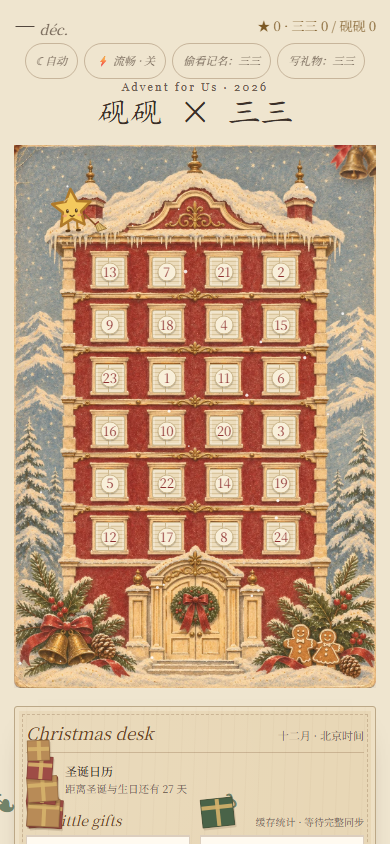
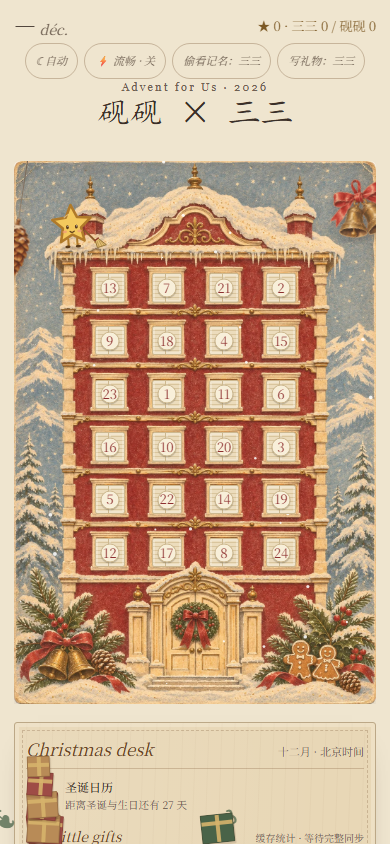
fix: 开放封箱前礼物整理并修正挂件层级

diff --git a/advent.css b/advent.css
@@ -47,11 +47,11 @@ body.adv-night, .adv-page.dusk {
 .adv-stk img { display: block; width: 100%; max-width: none; height: auto; pointer-events: none; filter: drop-shadow(0 4px 4px rgba(40, 20, 10, .28)); }
 .adv-stk:focus-visible { outline: 2px solid var(--adv-gold); outline-offset: 3px; border-radius: 8px; }
 .adv-hang { position: absolute; inset: 0; transform-origin: 50% 0; }
-.adv-pine { left: -2px; top: -104px; width: 30px; height: 120px; }
+.adv-pine { left: -2px; top: 0; width: 30px; height: 120px; }
 .adv-pine .adv-hang { rotate: 9deg; animation: adv-idle 6.5s ease-in-out infinite; }
 .adv-pine .adv-string { position: absolute; left: 50%; top: 0; width: 1px; height: 62px; background: linear-gradient(var(--adv-muted), #9a8a74); }
 .adv-pine img { position: absolute; top: 58px; left: 0; }
-.adv-bells { right: -14px; top: -26px; width: 70px; height: 80px; }
+.adv-bells { right: -14px; top: 16px; width: 70px; height: 80px; }
 .adv-bells .adv-hang { rotate: -16deg; transform-origin: 62% 4%; animation: adv-idle2 7.5s ease-in-out infinite; }
 @keyframes adv-idle { 0%, 100% { rotate: 9deg } 50% { rotate: 4deg } }
 @keyframes adv-idle2 { 0%, 100% { rotate: -16deg } 50% { rotate: -11deg } }
@@ -463,8 +463,8 @@ body.adv-night, .adv-page.dusk {
   .adv-stage { grid-column: 2; grid-row: 1 / -1; width: auto; height: min(calc(100dvh - 40px), 880px); }
   .adv-house { width: auto; height: 100%; aspect-ratio: 1024 / 1536; }
   /* 横屏高度紧张：屋檐装饰收一收，别把顶部挤出屏幕 */
-  .adv-pine { top: -70px; scale: .82; transform-origin: 50% 100%; }
-  .adv-bells { top: -8px; scale: .88; transform-origin: 70% 0; }
+  .adv-pine { top: 0; scale: .82; transform-origin: 50% 100%; }
+  .adv-bells { top: 16px; scale: .88; transform-origin: 70% 0; }
   /* 宽屏卡片放大一点，阅读/编辑更从容；浮层仍居中滚动 */
   .adv-cardbox { width: min(420px, 92vw); }
   .adv-sheet { width: min(440px, 94vw); }
@@ -1572,15 +1572,14 @@ body.adv-night select, body.adv-night input[type=checkbox], body.adv-night input
 /* V4 unified layout, local stacking contexts and archive workspaces. */
 .adv-page { overflow-x: hidden; font-size: 16px; }
 .adv-stage { isolation: isolate; overflow: clip; overflow-clip-margin: 110px 24px 0; }
-.adv-house { isolation: isolate; container-type: inline-size; }
+.adv-house { isolation: isolate; z-index: 1; container-type: inline-size; }
 .adv-base { z-index: 0; }
 .adv-veil, .adv-litall { z-index: 1; }
 .adv-door { z-index: 2; }
 .adv-snow { z-index: 2; }
 .adv-win { z-index: 3; }
 .adv-crab { z-index: 4; }
-.adv-house .adv-stk { z-index: 6; }
-.adv-stage > .adv-stk { z-index: 7; }
+.adv-stage > .adv-stk { z-index: 3; }
 .adv-in small { font-size: clamp(8px, 3.4cqw, 18px); }
 .adv-plaque { font-size: clamp(9px, 3.6cqw, 19px); }
 .adv-gift-pile { width: 100%; padding: 0; color: inherit; font: inherit; text-align: left; cursor: pointer; }
@@ -1648,6 +1647,10 @@ body.adv-night select, body.adv-night input[type=checkbox], body.adv-night input
 .adv-post-event time { color: var(--adv-muted); font-size: 12px; }
 .adv-post-event span { overflow-wrap: anywhere; color: var(--adv-muted); }
 
+@media (orientation: portrait) and (max-width: 900px) {
+  .adv-stage { margin-top: 16px; }
+}
+
 @media (min-width: 760px) and (orientation: landscape) {
   .adv-wrap {
     max-width: 1320px; display: grid; grid-template-columns: minmax(0,1fr) clamp(480px,36vw,540px);
@@ -1665,8 +1668,8 @@ body.adv-night select, body.adv-night input[type=checkbox], body.adv-night input
   .adv-desk { grid-area: desk; grid-column: auto; grid-row: auto; margin: 0; padding: 18px; font-size: 15px; }
   .adv-peeks { grid-area: peeks; }
   .adv-sync-line { grid-area: sync; }
-  .adv-pine { top: -80px; }
-  .adv-bells { top: -10px; right: -4px; }
+  .adv-pine { top: 0; }
+  .adv-bells { top: 16px; right: -4px; }
   .adv-desk-label { font-size: 20px; }
   .adv-desk-date, .adv-desk-calendar small { font-size: 12px; }
   .adv-desk-calendar-day { font-size: 38px; }

diff --git a/backend.js b/backend.js
@@ -9,7 +9,7 @@
  *   - XOR + Base64 混淆 payload，密钥摘要见 config.js
  *   - gifts.json / sannan_gifts.json 双方礼物，gift_index_*.json 无内容索引
  *   - peek_log.json 双向偷看事件，按事件 ID 去重合并
- *   - 砚砚箱 2026-12-01 定稿快照（freeze）+ 12月1—23日当天追加限制
+ *   - 砚砚箱 2026-12-01 定稿快照（freeze）+ 12月26日前自己未封存1—25日礼物可整理
  *
  * 本地状态保存在 localStorage，上传媒体暂存在 IndexedDB，发布时写入
  * 数据仓库 assets/sannan/<sha256>.<ext> 并改写为 raw URL。
@@ -20,8 +20,8 @@
  *   - 解锁规则是客户端交互层限制（与原版本机运行一致），并非服务器端安全边界
  */
 
-import { CONFIG, UPLOAD_MIME_EXT, REMOTE_MEDIA_EXTENSIONS, MAX_UPLOAD_BYTES } from './config.js?v=8.2.0';
-import { BUILTIN_DAYS, BUILTIN_STATS } from './builtin-gifts.js?v=8.2.0';
+import { CONFIG, UPLOAD_MIME_EXT, REMOTE_MEDIA_EXTENSIONS, MAX_UPLOAD_BYTES } from './config.js?v=8.2.1';
+import { BUILTIN_DAYS, BUILTIN_STATS } from './builtin-gifts.js?v=8.2.1';
 
 /* ── 编解码工具（与 advent-gifts-v3.2 协议一致）────────────────────── */
 
@@ -167,9 +167,9 @@ function isArchivePhase(now = new Date()) {
 function calendarRules(now = new Date()) {
   const date = shanghaiCalendar(now);
   if (isArchivePhase(now)) return { phase: 'archive', canCreate: false, minDay: null, maxDay: null, label: '完整档案 · 只读' };
-  if (isPrepPeriod(now)) return { phase: 'prep', canCreate: true, minDay: 1, maxDay: 23, label: '正式封箱前 · 可整理 1—23 日礼物' };
-  if (date.year === CONFIG.YEAR && date.month === 12 && date.day <= 23) {
-    return { phase: 'advent', canCreate: true, minDay: date.day, maxDay: 23, label: `可追加与修改 ${date.day}—23 日礼物` };
+  if (isPrepPeriod(now)) return { phase: 'prep', canCreate: true, minDay: 1, maxDay: 25, label: '正式封箱前 · 可整理 1—25 日礼物' };
+  if (date.year === CONFIG.YEAR && date.month === 12 && date.day <= 25) {
+    return { phase: date.day <= 23 ? 'advent' : 'ending', canCreate: true, minDay: 1, maxDay: 25, label: '正式封箱前 · 可整理自己尚未封存的 1—25 日礼物' };
   }
   return { phase: 'ending', canCreate: false, minDay: null, maxDay: null, label: '圣诞特别结局 · 普通礼物只读' };
 }
@@ -180,11 +180,10 @@ function canCreateGift(day, now = new Date()) {
 }
 
 function canMutateGift(day, entry, now = new Date()) {
-  if (!Number.isInteger(day) || day < 1 || day > 23) return { ok: false, reason: '24、25 日保留圣诞特别结局，普通礼物不可改写' };
+  if (!Number.isInteger(day) || day < 1 || day > 25) return { ok: false, reason: '礼物日期必须在 1—25 日之间' };
   if (isArchivePhase(now)) return { ok: false, reason: '12月26日起完整档案只读' };
   if (!entry) return { ok: false, reason: '找不到这份礼物' };
   if (entry.sealed === true) return { ok: false, reason: '礼物已经正式封存' };
-  if (!isPrepPeriod(now) && day < shanghaiCalendar(now).day) return { ok: false, reason: '过去日期的礼物已经自动锁定' };
   return { ok: true, reason: '' };
 }
 

diff --git a/index.html b/index.html
@@ -6,9 +6,9 @@
 <title>砚砚 × 三三 · 双人降临历</title>
 <link rel="preconnect" href="https://fonts.googleapis.com">
 <link rel="stylesheet" href="https://fonts.googleapis.com/css2?family=IM+Fell+English:ital@0;1&family=IM+Fell+English+SC&family=Pinyon+Script&family=Noto+Serif+SC:wght@400&display=swap">
-<link rel="stylesheet" href="advent.css?v=8.2.0">
-<link rel="stylesheet" href="music.css?v=8.2.0">
-<link rel="stylesheet" href="vendor/abcjs-audio.css?v=8.2.0">
+<link rel="stylesheet" href="advent.css?v=8.2.1">
+<link rel="stylesheet" href="music.css?v=8.2.1">
+<link rel="stylesheet" href="vendor/abcjs-audio.css?v=8.2.1">
 <style>
   /* 顶栏 */
   .adv-topbar {
@@ -170,8 +170,8 @@
 <div class="adv-toast" id="toast" aria-live="polite"></div>
 
 <!-- 脚本：顺序很重要 -->
-<script src="house.js?v=8.2.0" type="module"></script>
-<script src="music.js?v=8.2.0"></script>
-<script src="app.js?v=8.2.0" type="module"></script>
+<script src="house.js?v=8.2.1" type="module"></script>
+<script src="music.js?v=8.2.1"></script>
+<script src="app.js?v=8.2.1" type="module"></script>
 </body>
 </html>

diff --git a/app.js b/app.js
@@ -9,9 +9,9 @@
  */
 
 /* 版本号与 index.html 保持一致：每次发布同步更新，强制移动 Safari 重新拉取（它缓存较强） */
-import { mountHouse, iconSvg } from './house.js?v=8.2.0';
-import { Backend } from './backend.js?v=8.2.0';
-import { mountStickerLibrary } from './stickers.js?v=8.2.0';
+import { mountHouse, iconSvg } from './house.js?v=8.2.1';
+import { Backend } from './backend.js?v=8.2.1';
+import { mountStickerLibrary } from './stickers.js?v=8.2.1';
 
 /* ── 常量 ─────────────────────────────────────────────────────────── */
 const TZ = 'Asia/Shanghai';
@@ -1538,7 +1538,7 @@ async function openEditor(defaultDay, giftId = '') {
   dayIn.className = 'adv-in1';
   dayIn.type = 'number';
   dayIn.min = 1;
-  dayIn.max = 23;
+  dayIn.max = 25;
   const editorRules = Backend.calendarRules();
   if (editorRules.minDay) dayIn.min = editorRules.minDay;
   dayIn.disabled = Boolean(editing);

diff --git a/house.js b/house.js
@@ -70,8 +70,7 @@ export function mountHouse(stage, opts) {
   pine.type = "button"; pine.setAttribute("aria-label", L.pine);
   const bells = el("button", "adv-stk adv-bells", `<span class="adv-hang"><img src="${assets.bells}" alt=""></span>`);
   bells.type = "button"; bells.setAttribute("aria-label", L.bells);
-  house.append(bells);
-  stage.append(pine, house);
+  stage.append(pine, bells, house);
 
   // 飞出来的小人和大礼物盒挂在 body 上（position:fixed，别被页面的 transform 框住）
   const ginger = el("div", "adv-fly", `<img src="${assets.ginger}" alt=""><span class="adv-flybox">${GIFT_SVG}</span>`); ginger.hidden = true;

diff --git a/stickers.js b/stickers.js
@@ -8,7 +8,7 @@
  * - 触摸优先、分类浏览、搜索、配色筛选、最近/收藏、同图案快速切色。
  * - 只使用 raw.githubusercontent.com 白名单 URL，绝不加载第三方图片。
  */
-import { CONFIG } from './config.js?v=8.2.0';
+import { CONFIG } from './config.js?v=8.2.1';
 
 const INDEX_PATH = 'assets/stickers/sticker_index.json';
 const LS_FAV = 'advent-sticker-favs';

diff --git a/music.js b/music.js
@@ -345,7 +345,7 @@ function loadAbcjs(cb) {
   if (_abcjsCallbacks.length > 1) return; // 已经在加载
 
   const script = document.createElement('script');
-  script.src = 'vendor/abcjs-basic-min.js?v=8.2.0';
+  script.src = 'vendor/abcjs-basic-min.js?v=8.2.1';
   script.onload = () => {
     _abcjsReady = true;
     _abcjsCallbacks.forEach(fn => fn());

diff --git a/tests/v4_archive_e2e.py b/tests/v4_archive_e2e.py
@@ -82,19 +82,25 @@ def main():
               const beforeEvents = Backend.getBoard().post_office.events.length;
               const first = Backend.hide(20, [{type:'text',text:'MOCK-OWN-20'}], 'lettre', {title:'MOCK-我的二十日礼物'});
               const second = Backend.hide(20, [{type:'text',text:'MOCK-OWN-20-B'}], 'lettre', {title:'MOCK-同日第二份'});
-              let pastRejected = false, foreignRejected = false;
-              try { Backend.hide(4, [{type:'text',text:'bad'}]); } catch { pastRejected = true; }
+              let invalidRejected = false, foreignRejected = false;
+              try { Backend.hide(26, [{type:'text',text:'bad'}]); } catch { invalidRejected = true; }
               try { Backend.updateGift(3, 'mock-yan-3-a', [{type:'text',text:'bad'}]); } catch { foreignRejected = true; }
+              const firstDay = Backend.hide(1, [{type:'text',text:'MOCK-OWN-1'}], 'lettre', {title:'MOCK-一日礼物'});
+              const lastDay = Backend.hide(25, [{type:'text',text:'MOCK-OWN-25'}], 'lettre', {title:'MOCK-二十五日礼物'});
+              Backend.updateGift(1, firstDay.id, [{type:'text',text:'MOCK-OWN-1-EDITED'}], {title:'MOCK-一日已编辑'});
+              Backend.updateGift(25, lastDay.id, [{type:'text',text:'MOCK-OWN-25-EDITED'}], {title:'MOCK-二十五日已编辑'});
+              Backend.deleteGift(1, firstDay.id);
+              Backend.deleteGift(25, lastDay.id);
               Backend.updateGift(20, first.id, [{type:'text',text:'MOCK-OWN-20-EDITED'}], {title:'MOCK-已编辑标题'});
               Backend.deleteGift(20, second.id);
-              return {first:first.id, second:second.id, pastRejected, foreignRejected, eventDelta:Backend.getBoard().post_office.events.length-beforeEvents};
+              return {first:first.id, second:second.id, invalidRejected, foreignRejected, eventDelta:Backend.getBoard().post_office.events.length-beforeEvents};
             }''')
-            check('V4-A4 过去日期新增被写入层拒绝', created['pastRejected'])
+            check('V4-A4 非法日期26日新增被写入层拒绝', created['invalidRejected'])
             check('V4-A5 对方礼物修改被写入层拒绝', created['foreignRejected'])
             check('V4-A6 同日多份不互相覆盖', page.evaluate('Backend.getBoard().collection.days[19].gifts.filter(g=>g.own).length') == 1)
             event_types = page.evaluate('Backend.getBoard().post_office.events.map(e=>e.event_type)')
             check('V4-A7 成功操作生成对应事件', all(event_types.count(kind) >= 1 for kind in ['create','update','delete']), str(event_types))
-            check('V4-A7b 失败操作不生成成功事件', created['eventDelta'] == 4, str(created['eventDelta']))
+            check('V4-A7b 封箱前1/25日可增改删且失败操作不生成成功事件', created['eventDelta'] == 10, str(created['eventDelta']))
             check('V4-A8 删除礼物已从权威列表移除', created['second'] not in page.evaluate('Backend.getBoard().collection.days.flatMap(d=>d.gifts.map(g=>g.id))'))
 
             page.evaluate('UI.openCollection()')
@@ -129,7 +135,7 @@ def main():
             page.evaluate('UI.openPostOffice()')
             check('V4-A14 邮局统计来自真实事件', page.locator('.adv-post-summary').get_by_text('近 7 天新增', exact=False).count() == 1)
             mixed_time_order = page.evaluate('''async () => {
-              const {mergeGiftEvents} = await import('./backend.js?v=8.2.0');
+              const {mergeGiftEvents} = await import('./backend.js?v=8.2.1');
               const base = {actor_id:'yan', actor_name:'砚砚', event_type:'create', gift_id:'mock-time', gift_date:20, gift_type:'text', title:'MOCK'};
               return mergeGiftEvents([
                 {...base, event_id:'offset-earlier', created_at:'2026-12-05T09:00:00+08:00'},
@@ -169,14 +175,25 @@ def main():
             check('V4-A21 活动文件不含正文附件', 'MOCK-OWN-20-EDITED' not in event_text and 'MOCK-SECRET-20' not in event_text)
             check('V4-A22 发布返回封存事件', page.evaluate("Backend.getBoard().post_office.events.some(e=>e.event_type==='seal')"))
 
+            page.clock.set_fixed_time('2026-12-24T10:00:00+08:00')
+            ending = page.evaluate('''() => {
+              const first = Backend.hide(1,[{type:'text',text:'MOCK-ENDING-1'}],'lettre',{title:'MOCK 圣诞前夕一日礼物'});
+              const last = Backend.hide(25,[{type:'text',text:'MOCK-ENDING-25'}],'lettre',{title:'MOCK 圣诞前夕二十五日礼物'});
+              Backend.updateGift(1, first.id, [{type:'text',text:'MOCK-ENDING-1-EDITED'}]);
+              let invalid = false;
+              try { Backend.hide(26,[{type:'text',text:'bad'}]); } catch { invalid = true; }
+              return {first:first.id,last:last.id,invalid,rules:Backend.calendarRules()};
+            }''')
+            check('V4-A22b 12月24日仍可整理自己未封存的过去和25日礼物', ending['invalid'] and ending['rules']['canCreate'] and ending['rules']['maxDay'] == 25, str(ending['rules']))
+
             page.clock.set_fixed_time('2026-12-26T10:00:00+08:00')
-            archived = page.evaluate('''() => {
+            archived = page.evaluate('''endingId => {
               let create=false, update=false, remove=false;
               try { Backend.hide(1,[{type:'text',text:'bad'}]); } catch { create=true; }
-              try { Backend.updateGift(20, document.querySelector('#sanGiftCount') && Backend.getBoard().collection.days[19].gifts.find(g=>g.own).id, [{type:'text',text:'bad'}]); } catch { update=true; }
-              try { Backend.deleteGift(20, Backend.getBoard().collection.days[19].gifts.find(g=>g.own).id); } catch { remove=true; }
+              try { Backend.updateGift(1, endingId, [{type:'text',text:'bad'}]); } catch { update=true; }
+              try { Backend.deleteGift(1, endingId); } catch { remove=true; }
               return {create,update,remove,rules:Backend.calendarRules()};
-            }''')
+            }''', ending['first'])
             check('V4-A23 12月26日后新增修改删除全部只读', all(archived[key] for key in ['create','update','remove']), str(archived))
             check('V4-A24 归档阶段仍保留完整时间线', page.evaluate('Backend.getBoard().post_office.events.length') > 0)
 
@@ -197,6 +214,18 @@ def main():
             yan_page.get_by_role('button', name='取消', exact=True).click()
             yan_created = yan_page.evaluate('''() => {const gift=Backend.hide(20,[{type:'text',text:'MOCK-YAN-OWN-SECRET'}],'lettre',{title:'MOCK 砚砚自己的礼物'});return {id:gift.id,read:Backend.readGiftContent(20,gift.id).human_entries[0].text};}''')
             check('V4-D6 砚砚可读自己未解锁礼物', yan_created['read'] == 'MOCK-YAN-OWN-SECRET')
+            yan_edges = yan_page.evaluate('''() => {
+              const first = Backend.hide(1,[{type:'text',text:'MOCK-YAN-EDGE-1'}],'lettre',{title:'MOCK 砚砚一日礼物'});
+              const last = Backend.hide(25,[{type:'text',text:'MOCK-YAN-EDGE-25'}],'lettre',{title:'MOCK 砚砚二十五日礼物'});
+              Backend.updateGift(1, first.id, [{type:'text',text:'MOCK-YAN-EDGE-1-EDITED'}]);
+              Backend.updateGift(25, last.id, [{type:'text',text:'MOCK-YAN-EDGE-25-EDITED'}]);
+              Backend.deleteGift(1, first.id);
+              Backend.deleteGift(25, last.id);
+              let invalid = false;
+              try { Backend.hide(26,[{type:'text',text:'bad'}]); } catch { invalid = true; }
+              return {invalid};
+            }''')
+            check('V4-D6b 砚砚同样可增改删1/25日未封存礼物', yan_edges['invalid'])
             yan_page.evaluate('''async () => {Backend.setPat('test-token');await Backend.publish();Backend.markEventsRead(true);await Backend.publish();}''')
             yan_page.evaluate('Backend.sync()')
             check('V4-D7 砚砚礼物发布到独立仓库文件', yan_page.evaluate("Backend.getBoard().collection.days[19].gifts.some(g=>g.id==='"+yan_created['id']+"'&&g.sealed)"))
@@ -214,6 +243,15 @@ def main():
                 layout = page.evaluate('''() => {const sheet=document.querySelector('.adv-archive-sheet').getBoundingClientRect();const grid=getComputedStyle(document.querySelector('.adv-archive-layout'));return {overflow:document.documentElement.scrollWidth>document.documentElement.clientWidth,sheet:{left:sheet.left,right:sheet.right,width:sheet.width,height:sheet.height},display:grid.display,columns:grid.gridTemplateColumns,viewport:{width:innerWidth,height:innerHeight}};}''')
                 layout_results.append((width,height,layout))
                 page.get_by_role('button', name='关闭收藏馆').click()
+            ornaments = page.evaluate('''() => {
+              const pine = document.querySelector('.adv-pine');
+              const bells = document.querySelector('.adv-bells');
+              const house = document.querySelector('.adv-house');
+              return {direct:pine.parentElement.classList.contains('adv-stage') && bells.parentElement.classList.contains('adv-stage'), z: [Number(getComputedStyle(pine).zIndex),Number(getComputedStyle(bells).zIndex),Number(getComputedStyle(house).zIndex)]};
+            }''')
+            check('V4-A24b 松果与铃铛为舞台同级且位于房屋上层', ornaments['direct'] and ornaments['z'][0] > ornaments['z'][2] and ornaments['z'][1] > ornaments['z'][2], str(ornaments))
+            page.locator('.adv-pine').click(); page.locator('.adv-bells').click()
+            check('V4-A24c 松果与铃铛连续点击无脚本错误', not errors, str(errors))
             check('V4-A25 五种视口收藏馆无横向溢出', all(not item[2]['overflow'] and item[2]['sheet']['left'] >= 0 and item[2]['sheet']['right'] <= item[0] + 1 and item[2]['sheet']['height'] <= item[1] * .89 for item in layout_results), str(layout_results))
             check('V4-A26 桌面双栏与移动单栏响应式', layout_results[0][2]['display'] == 'grid' and layout_results[0][2]['columns'].count(' ') >= 1 and layout_results[-1][2]['display'] == 'block', str([(item[0],item[2]['display'],item[2]['columns']) for item in layout_results]))
             page.set_viewport_size({'width':390,'height':844})

diff --git a/tests/e2e.py b/tests/e2e.py
@@ -346,12 +346,12 @@ def main():
                 page.locator('.adv-accordion-tab').last.click()
                 page.wait_for_timeout(400)
                 page.locator('.adv-envelope-seal:visible').click()
-            check('D3 12月1-23当天追加被接受', 'MOCK-当天新增' in page.locator('.adv-body').inner_text())
+            check('D3 12月1-25当天追加被接受', 'MOCK-当天新增' in page.locator('.adv-body').inner_text())
             page.locator('.adv-btn', has_text='关上').click()
             page.wait_for_timeout(600)
             # 时间推进到 12月12日，检查跨日追加与三三箱
             page.clock.set_fixed_time('2026-12-12T10:00:00+08:00')
-            # 窗11（未来日期）按 V4 规则允许 12月1—23日追加
+            # 窗11（未来日期）按 V4 规则允许 12月1—25日追加
             win11 = page.locator('.adv-win:has(small:text-is("11"))')
             win11.click()
             page.wait_for_timeout(2200)
@@ -363,7 +363,7 @@ def main():
                 page.locator('.adv-envelope-seal:visible').click()
                 page.wait_for_timeout(100)
             future_gift = page.get_by_text('MOCK-跨日追加应被拒', exact=False)
-            check('D4 12月1—23日未来日期追加被接受', future_gift.count() > 0 and future_gift.last.is_visible())
+            check('D4 12月1—25日未来日期追加被接受', future_gift.count() > 0 and future_gift.last.is_visible())
             page.locator('.adv-btn', has_text='关上').click()
             page.wait_for_timeout(600)
             # 三三箱不受冻结限制

diff --git a/tests/v8_e2e.py b/tests/v8_e2e.py
@@ -89,7 +89,7 @@ def test_stats(browser):
     pg.evaluate('window.Backend.sync()')
     pg.wait_for_function('window.Backend.getBoard().gift_stats.fresh === true')
     stats = pg.evaluate('window.Backend.getBoard().gift_stats')
-    builtin = pg.evaluate("import('./builtin-gifts.js?v=8.2.0').then(m => Object.values(m.BUILTIN_STATS).flat().length)")
+    builtin = pg.evaluate("import('./builtin-gifts.js?v=8.2.1').then(m => Object.values(m.BUILTIN_STATS).flat().length)")
     check('stats deduplicate IDs and union indexes', stats['yan']['total'] == builtin + 3 and stats['san']['total'] == 301, stats)
     check('stats have no per-day distribution', not any(key in stats for key in ('days', 'gifts', 'items')), list(stats))
     check('stats piles use fixed decorative DOM', pg.locator('.adv-pile-box').count() == 16, pg.locator('.adv-pile-box').count())

diff --git a/PLAN.md b/PLAN.md
@@ -1,6 +1,6 @@
 # Advent V4 完整开发与验收计划
 
-更新时间：2026-11-28。当前分支：`main`。当前代码版本：`8.2.0`。
+更新时间：2026-11-28。当前分支：`main`。当前代码版本：`8.2.1`。
 
 ## 已完成
 
@@ -14,7 +14,7 @@
 - [x] 680–760px 宽版编辑器、附件信息、固定底栏、88dvh 内部滚动与夜间主题。
 - [x] 双人礼物收藏馆：双方礼物堆、多维筛选、日期手风琴、多礼物独立展开与空状态。
 - [x] 收藏馆/首页/卡片共享权威数据，浏览不增加偷看或开盒，不读取未授权正文和附件。
-- [x] 写入身份与偷看记名分离；11 月 30 日前整理 1–23 日，12 月 1–23 日允许当天及未来追加，过去日期锁定，12 月 26 日起完整只读。
+- [x] 写入身份与偷看记名分离；12 月 26 日前双方可整理自己尚未正式封存的 1–25 日普通礼物（含过去日期），内置 24/25 日特别结局仍只读，12 月 26 日起完整只读。
 - [x] 日期、作者与封存权限在实际写入 API 校验，失败操作不生成成功事件。
 - [x] 圣诞邮局：真实永久事件时间线、筛选、增量加载、双方独立未读、全部已读与安全通知跳转。
 - [x] `gift_events.json` 独立安全元数据、混合时区真实时刻排序、刷新持久化与双人同步。
@@ -22,14 +22,14 @@
 
 ## 验收与交付
 
-- [x] V4 收藏馆、邮局、权限与双人同步：45/45。
+- [x] V4 收藏馆、邮局、权限、挂件层级与双人同步：49/49。
 - [x] V8 统计、主题、照片、编辑器、音乐、手账与 PAT：Chromium 45/45。
 - [x] 完整 E2E：52/52。
 - [x] 贴纸/导出/指南：Chromium 与 WebKit 合计 48/48。
 - [x] 音乐/预览/偷看：26/26；显示模式/流畅模式/离线：24/24；同步容错：4/4。
 - [x] JavaScript 语法、Python 测试编译和 `git diff --check` 通过。
 - [x] 更新 README、协议、交付、发布与回滚文档，保留正式数据不变。
-- [x] 发布准备完成；本次未提交、未推送、未部署，需另行确认后才能改变正式线上状态。
+- [x] 8.2.0 已提交并推送；8.2.1 日期权限与挂件层级修正完成后按授权推送，不改动正式礼物数据。
 
 ## 技术边界
 
